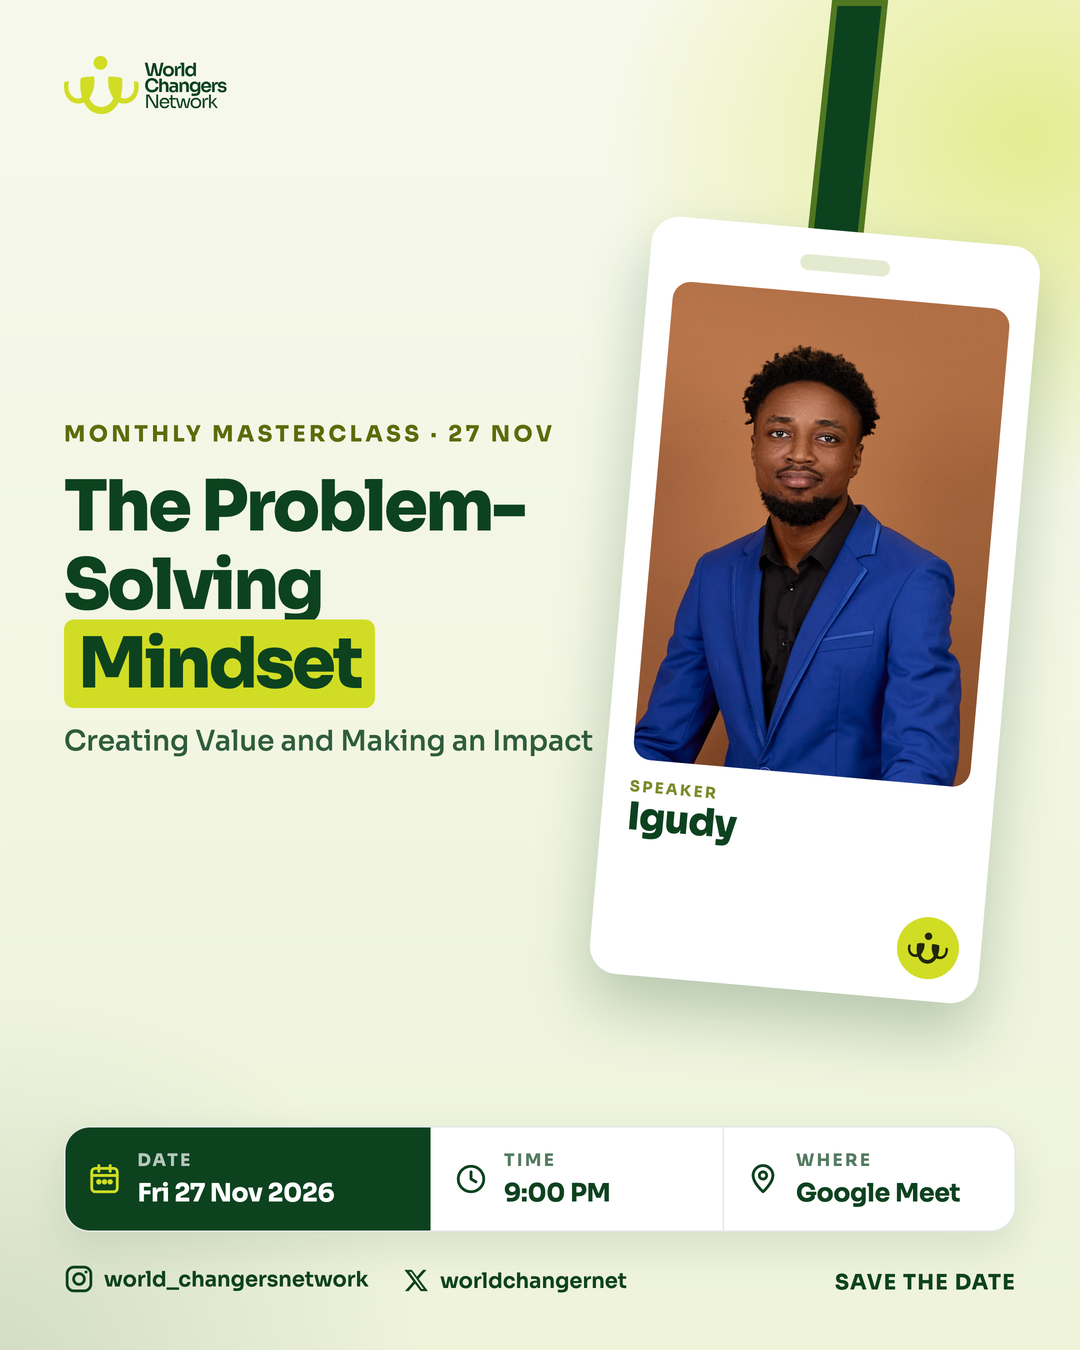
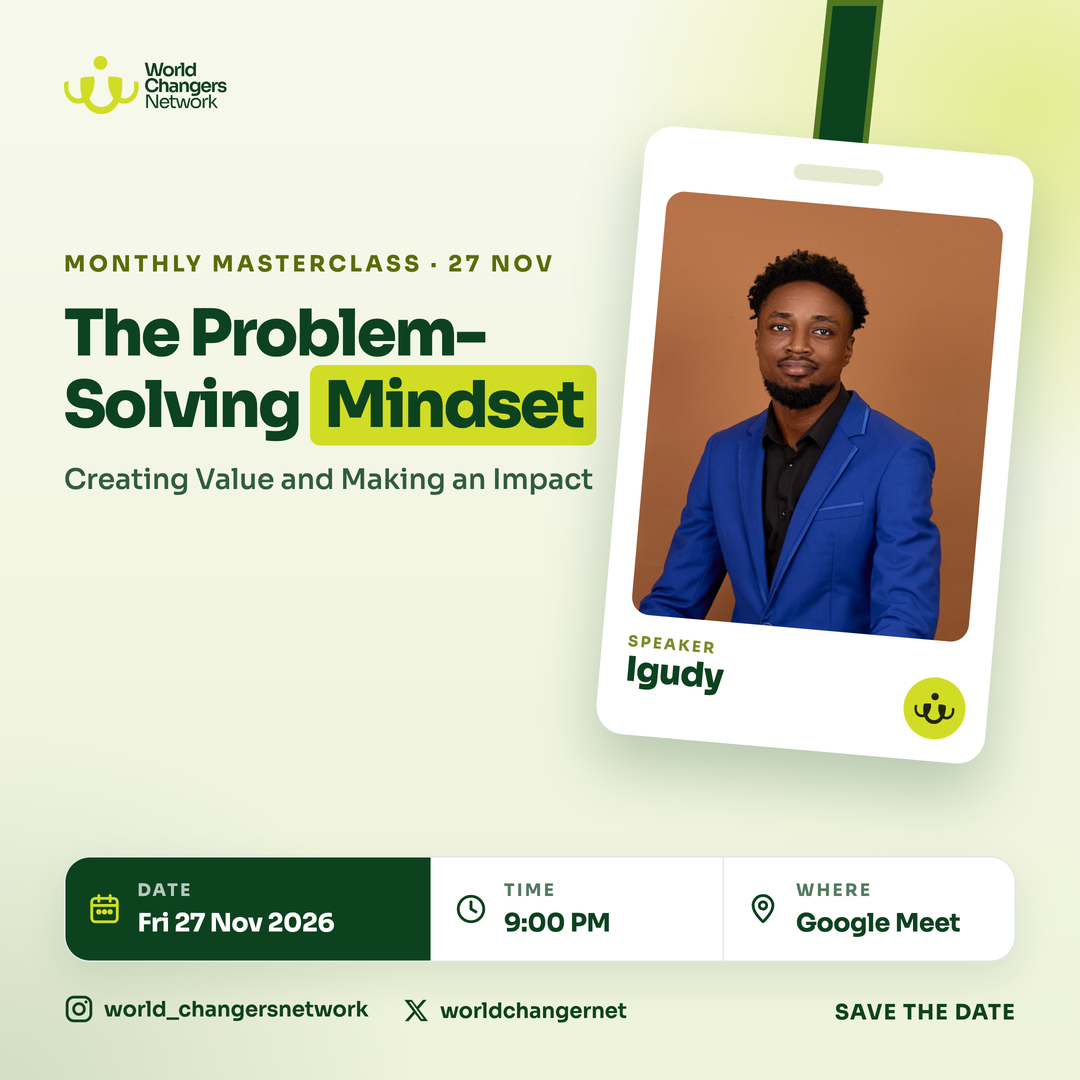
Masterclass: square 1080x1080 pass flyer by default, portrait kept with --portrait

diff --git a/tools/masterclass.py b/tools/masterclass.py
@@ -1,6 +1,6 @@
 #!/usr/bin/env python3
 """
-WCN Monthly Masterclass flyers, 1080x1350 (Instagram portrait).
+WCN Monthly Masterclass flyers, 1080x1080 square (default) or 1080x1350 with --portrait.
 
 One flyer per row of Masterclass/schedule.csv. Edit the sheet, not this file.
 
@@ -34,6 +34,11 @@ SHEET = os.path.join(ROOT, "Masterclass", "schedule.csv")
 OUT_DIR = os.path.join(ROOT, "Masterclass")
 HOST_DIR = os.path.join(ROOT, "images", "hosts")
 LAYOUTS = ("pass", "stamp", "bold")
+# Arkcore (25 Nov): square 1080x1080 by default, the details are short.
+# --portrait gives 1080x1350. Only `pass` has a square version so far.
+SIZE = "portrait" if "--portrait" in sys.argv else "square"
+SQ = SIZE == "square"
+H = 1080 if SQ else 1350
 
 LIME, FOREST, INK = g.ACCENT, g.FOREST, g.INK
 TBC = "To be announced"
@@ -53,7 +58,7 @@ def css():
     return f"""
 {g.font_css()}
 *{{margin:0;padding:0;box-sizing:border-box}}
-html,body{{width:1080px;height:1350px;overflow:hidden}}
+html,body{{width:1080px;height:{H}px;overflow:hidden}}
 body{{font-family:'Sans';color:#fff;position:relative;
   background:
     radial-gradient(900px 700px at 100% 0%, rgba(209,221,37,.22), transparent 60%),
@@ -309,7 +314,10 @@ def layout_pass(row):
     """Light layout: the host photo on a WCN speaker pass hanging from a lanyard."""
     t = row["Title"]
     sub = row.get("Subtitle", "").strip()
-    fs = title_size(t, 70)
+    fs = title_size(t, 64 if SQ else 70)
+    # square / portrait geometry
+    txt_top, lan_h, card_top, card_h, ph_h, name_fs = ((250, 160, 140, 610, 425, 34) if SQ
+                                                        else (420, 250, 230, 760, 480, 38))
     first = g.esc(row["Host"].split()[0])
     aka = g.esc((row.get("Also known as") or "").strip())
     ig = g.IG_ICON.format(c=FOREST)
@@ -318,19 +326,19 @@ def layout_pass(row):
     logo = logo_dark if os.path.exists(logo_dark) else g.LOGO
     return f"""<style>{PASS_CSS}</style><div class="light">
 <div class="top"><img src="{g.data_uri(logo)}" style="filter:none"/></div>
-<div style="position:absolute;left:64px;top:420px;width:540px">
+<div style="position:absolute;left:64px;top:{txt_top}px;width:540px">
   <div class="kicker" style="margin-bottom:20px">Monthly Masterclass · {nice_date(row['Date'])[1]} {nice_date(row['Date'])[2]}</div>
   <h1 style="font-size:{fs}px;line-height:1.12">{headline(t)}</h1>
   {f'<p class="sub" style="font-size:28px;margin-top:20px">{g.esc(sub)}</p>' if sub else ''}
 </div>
-<div style="position:absolute;right:205px;top:0;width:56px;height:250px;background:{FOREST};
+<div style="position:absolute;right:205px;top:0;width:56px;height:{lan_h}px;background:{FOREST};
   transform:skewX(-6deg);box-shadow:inset 0 0 0 6px rgba(209,221,37,.35)"></div>
-<div style="position:absolute;right:70px;top:230px;width:390px;height:760px;background:#fff;
+<div style="position:absolute;right:70px;top:{card_top}px;width:390px;height:{card_h}px;background:#fff;
   border-radius:28px;transform:rotate(5deg);box-shadow:0 30px 60px rgba(13,66,31,.25);padding:26px">
   <div style="width:90px;height:16px;border-radius:9px;background:#E4EAD0;margin:0 auto 22px"></div>
-  <div style="height:480px;border-radius:18px;background:url({photo_uri(row)}) {row.get('Photo position') or '50% 20%'}/cover no-repeat"></div>
+  <div style="height:{ph_h}px;border-radius:18px;background:url({photo_uri(row)}) {row.get('Photo position') or '50% 20%'}/cover no-repeat"></div>
   <div style="margin-top:18px;font-size:15px;letter-spacing:.16em;font-weight:700;color:#7d8a2a">SPEAKER</div>
-  <div style="font-family:'Display';font-weight:800;font-size:38px;color:{FOREST};letter-spacing:-.02em;line-height:1.1">{g.esc(row['Host'])}</div>
+  <div style="font-family:'Display';font-weight:800;font-size:{name_fs}px;color:{FOREST};letter-spacing:-.02em;line-height:1.1">{g.esc(row['Host'])}</div>
   {f'<div style="font-size:19px;font-weight:600;color:rgba(13,66,31,.7);margin-top:4px">aka {aka}</div>' if aka else ''}
   <div style="position:absolute;right:22px;bottom:22px;width:62px;height:62px;border-radius:50%;
     background:{LIME};display:flex;align-items:center;justify-content:center">
@@ -359,13 +367,13 @@ def build(row, layouts):
     out = os.path.join(OUT_DIR, f"{row['Date']} - {first}")
     os.makedirs(out, exist_ok=True)
     for lay in layouts:
-        path = os.path.join(out, f"flyer-{lay}.png")
-        g.render(html(row, lay), path)
+        path = os.path.join(out, f"flyer-{lay}.png" if SQ else f"flyer-{lay}-portrait.png")
+        g.render(html(row, lay), path, SIZE)
         print("  rendered", os.path.relpath(path, ROOT))
 
 
 def main(argv):
-    layouts = LAYOUTS
+    layouts = ("pass",) if SQ else LAYOUTS
     if "--layout" in argv:
         layouts = (argv[argv.index("--layout") + 1],)
     rows = load()

diff --git a/Masterclass/README.md b/Masterclass/README.md
@@ -1,7 +1,7 @@
 # WCN Monthly Masterclass flyers
 
 One team member teaches a masterclass on the last Friday of each month.
-Each session gets an Instagram portrait flyer (1080x1350) in WCN brand
+Each session gets a square Instagram flyer (1080x1080, Arkcore 25 Nov; `--portrait` gives 1080x1350) in WCN brand
 (Sora, lime `#D1DD25`, forest `#0D421F`, WCN logo top left).
 
 | Path | What it holds |
@@ -29,7 +29,8 @@ A row with no Title is skipped.
 ## Render
 
 ```bash
-python3 tools/masterclass.py 2026-11-27                 # all three layouts
+python3 tools/masterclass.py 2026-11-27                 # square pass flyer
+python3 tools/masterclass.py 2026-11-27 --portrait      # all three layouts, portrait
 python3 tools/masterclass.py 2026-12-18 --layout pass   # one layout
 python3 tools/masterclass.py --all                      # every titled row
 ```
